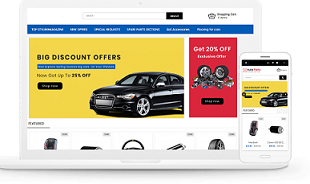
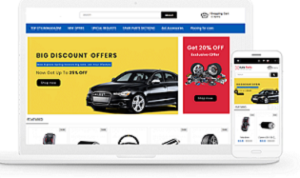
Adding styling changes

diff --git a/public/Content/app.css b/public/Content/app.css
@@ -22,7 +22,7 @@
 {
     border:0px solid black; 
     height:50px; 
-     display: table-row;
+    display: table-row;
 
 }
 .col_con
@@ -49,8 +49,9 @@
     display: table-cell; 
     float: right;
     width: 700px;
-    height:300px;
+    height:270px;
     margin-left:10px;
+    border: 3px solid black;
 }
 
 .profile-image 
@@ -82,3 +83,59 @@
    text-align: center;
     font-size: 50px;
   }
+
+  .form {
+    margin: 0 auto;
+    width: 210px;
+}
+
+label{
+    display:inline-block;
+    width:200px;
+    margin-right:30px;
+    text-align:right;
+    }
+    
+input{
+}
+    
+fieldset{
+    border:none;
+    width:500px;
+    margin:0px auto;
+    }
+textarea
+{
+     margin-left:230px;
+        
+}
+.m_btn{
+    margin-left:230px;
+}
+
+.hero {
+    position: relative;
+    padding: 5em 0;
+    overflow: hidden;
+}
+
+.align-items-center {
+    -ms-flex-align: center!important;
+    align-items: center!important;
+}
+
+.justify-content-center {
+    -ms-flex-pack: center!important;
+    justify-content: center!important;
+}
+
+.d-flex {
+    display: -ms-flexbox!important;
+    display: flex!important;
+}
+
+.hero-bg {
+    background: linear-gradient(
+170deg
+, var(--primary-color) 64%, var(--white-color) 30%);
+}
